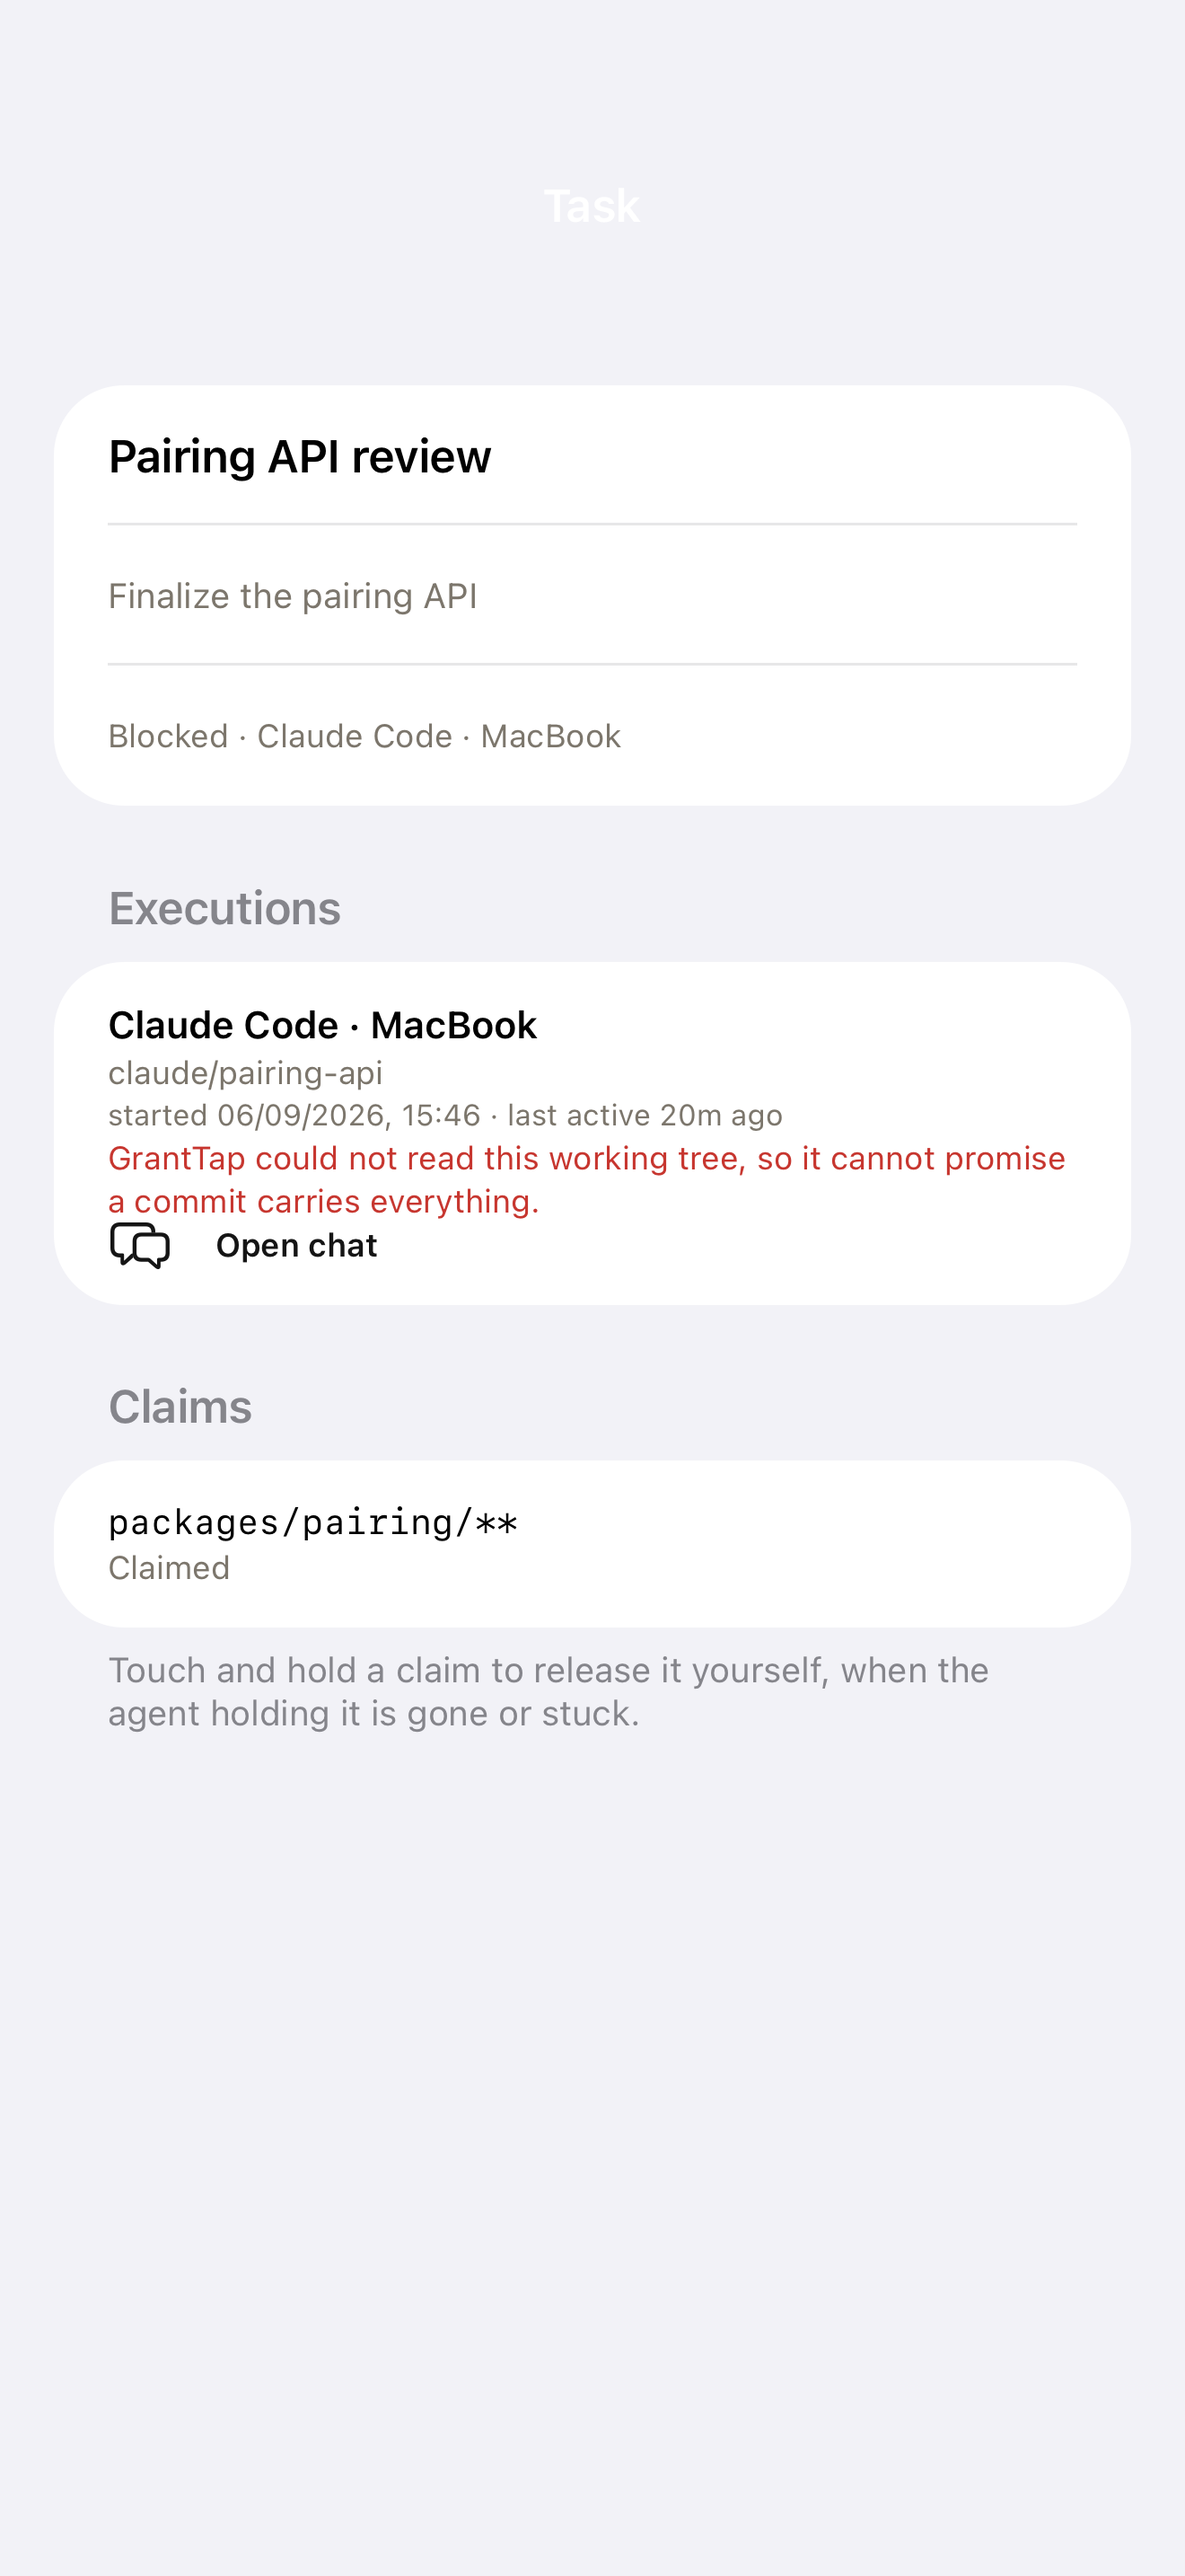
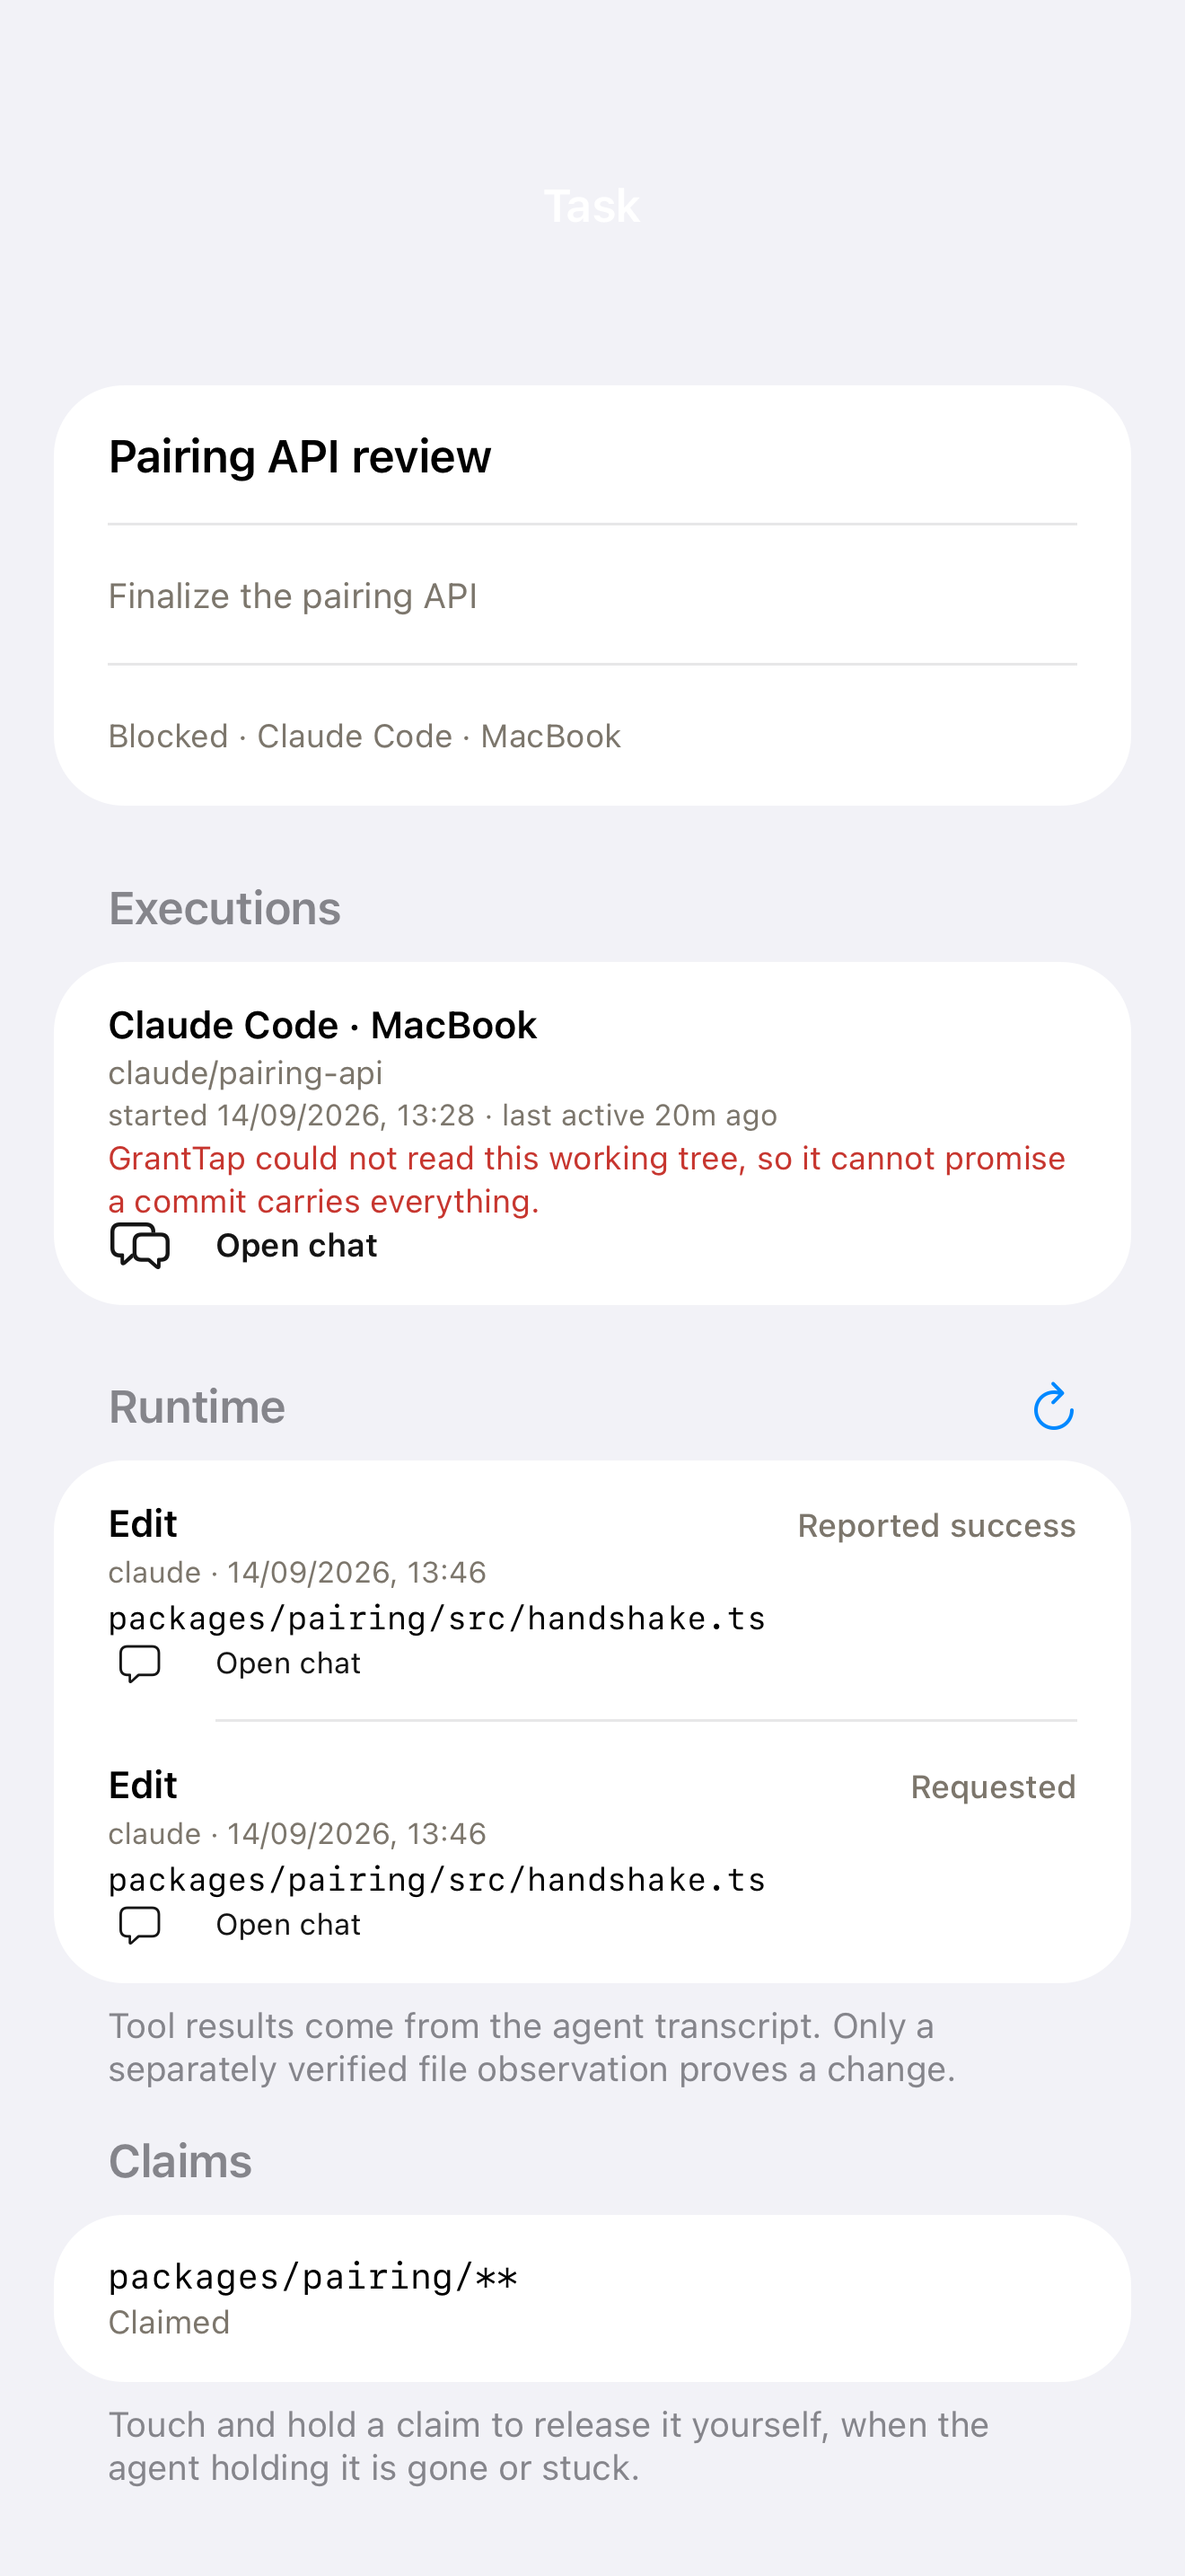
Align website Task preview with Runtime history

diff --git a/app/page.tsx b/app/page.tsx
@@ -51,7 +51,7 @@ export const copy = {
       ["iphone-project-mesh", "Project", "Governance, members and computers, bound repositories, and the Tasks under them."],
       ["iphone-members", "Members", "Who is in the Project, what each may do, and which computers carry the work."],
       ["iphone-invite", "Invite", "A one-time code, good for fifteen minutes, with the role chosen before it is made."],
-      ["iphone-task-route", "Task", "Every execution of one Task, the claims it holds, and who else is in these files."],
+      ["iphone-task-route", "Task", "Executions, claims, and optional Engine-backed Runtime history for one Task."],
       ["iphone-handoff", "Handoff", "Move a Task to another agent or computer once every readiness check passes."],
       ["iphone-governance", "Governance", "One answer per kind of capability, and the enforcement each computer reached."],
       ["iphone-report", "Report", "A Task as a PDF or CSV: tokens, tool calls, wrong turns, and where the time went."],
@@ -144,7 +144,7 @@ export const copy = {
       ["iphone-project-mesh", "Проект", "Governance, участники и компьютеры, связанные репозитории и задачи под ними."],
       ["iphone-members", "Участники", "Кто в проекте, что каждому можно и какие компьютеры несут работу."],
       ["iphone-invite", "Приглашение", "Одноразовый код на пятнадцать минут, роль выбирается до того, как он создан."],
-      ["iphone-task-route", "Задача", "Все исполнения одной задачи, её claims и кто ещё работает в этих файлах."],
+      ["iphone-task-route", "Задача", "Исполнения, claims и история Runtime при подключённом Engine для одной задачи."],
       ["iphone-handoff", "Handoff", "Передача задачи другому агенту или компьютеру, когда все проверки пройдены."],
       ["iphone-governance", "Governance", "Один ответ на каждый вид возможностей и уровень, которого достиг каждый компьютер."],
       ["iphone-report", "Отчёт", "Задача как PDF или CSV: токены, вызовы инструментов, неверные ходы и время."],

diff --git a/README.md b/README.md
@@ -34,7 +34,13 @@ granttap setup
 After plugin installation, open GrantTap inside Codex or ask the agent:
 `Show my GrantTap pairing QR.` Codex renders connection status, the one-time
 QR, a copy-link fallback, and confirmed reconnect controls in the conversation.
-The current plugin uses the public `granttap-mcp@0.8.7` package.
+The current plugin uses the public `granttap-mcp@0.8.18` package.
+
+The Task screenshot includes a demo Runtime history. On a real computer,
+Invocation history requires the separately distributed GrantTap Engine. A tool
+request or reported success is not presented as a verified filesystem change;
+the bridge does not yet produce verified change events or revision-bound impact
+links.
 
 - [granttap-mcp source](https://github.com/sergii-ziborov/granttap-mcp)
 - [npm package](https://www.npmjs.com/package/granttap-mcp)
